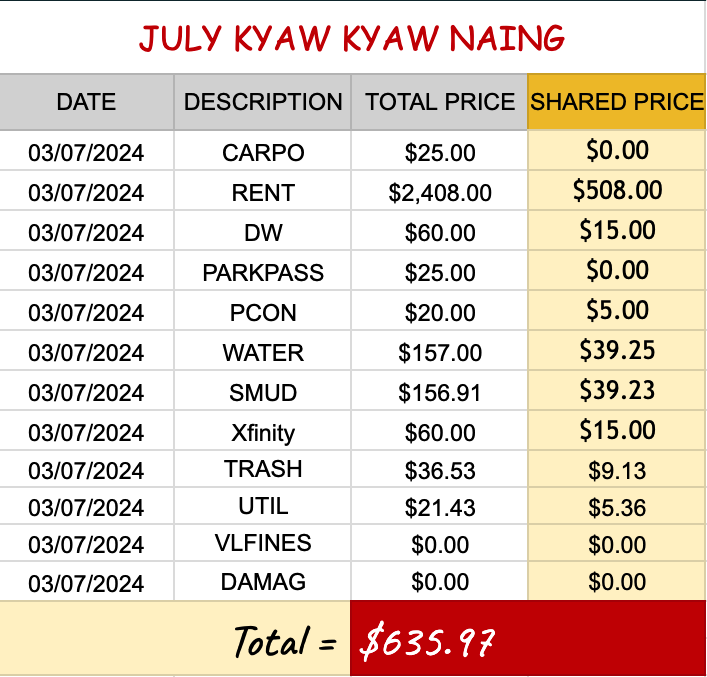
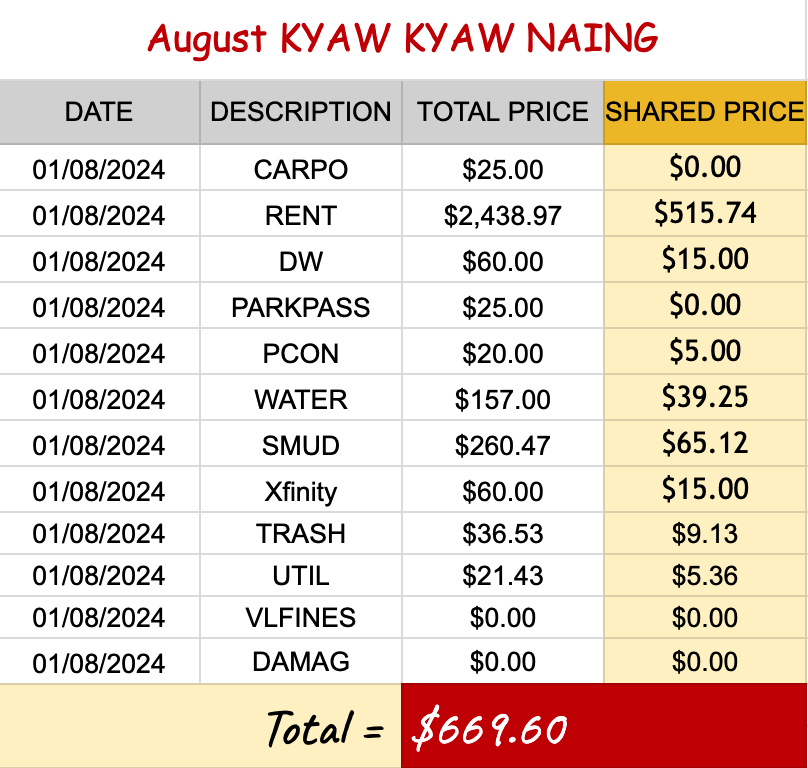
August Rent Posted

diff --git a/index.html b/index.html
@@ -123,25 +123,25 @@ img {
     <div class="card">
     <h3>Myat Thiri Khine</h3>
     <!-- Paid Link, modify display style as needed -->
-    <a href="src/paid.html" style="display:flex;">Payment Status: &nbsp;<span class="status-paid"> Paid</span></a>
+    <a href="src/paid.html" style="display:none;">Payment Status: &nbsp;<span class="status-paid"> Paid</span></a>
     <!-- Unpaid Link -->
-    <a href="src/mtrk-stat.html" style="display:none;">Payment Status: &nbsp;<span class="status-unpaid"> Awaiting Payment</span></a>
+    <a href="src/mtrk-stat.html" style="display:flex;">Payment Status: &nbsp;<span class="status-unpaid"> Awaiting Payment</span></a>
 </div>
 
 <div class="card">
     <h3>Khant Zaw Aung</h3>
     <!-- Paid Link, modify display style as needed -->
-    <a href="src/paid.html" style="display:flex;">Payment Status: &nbsp;<span class="status-paid"> Paid</span></a>
+    <a href="src/paid.html" style="display:none;">Payment Status: &nbsp;<span class="status-paid"> Paid</span></a>
     <!-- Unpaid Link -->
-    <a href="src/kza-stat.html" style="display:none;">Payment Status: &nbsp;<span class="status-unpaid"> Awaiting Payment</span></a>
+    <a href="src/kza-stat.html" style="display:flex;">Payment Status: &nbsp;<span class="status-unpaid"> Awaiting Payment</span></a>
 </div>
 
 <div class="card">
     <h3>Kyaw Kyaw Naing</h3>
     <!-- Paid Link -->
-    <a href="src/paid.html" style="display:flex;">Payment Status: &nbsp;<span class="status-paid"> Paid</span></a>
+    <a href="src/paid.html" style="display:none;">Payment Status: &nbsp;<span class="status-paid"> Paid</span></a>
     <!-- Unpaid Link, modify display style as needed -->
-    <a href="src/kkn-stat.html" style="display:none;">Payment Status: &nbsp;<span class="status-unpaid"> Awaiting Payment</span></a>
+    <a href="src/kkn-stat.html" style="display:flex;">Payment Status: &nbsp;<span class="status-unpaid"> Awaiting Payment</span></a>
 </div>
 
 </div>
